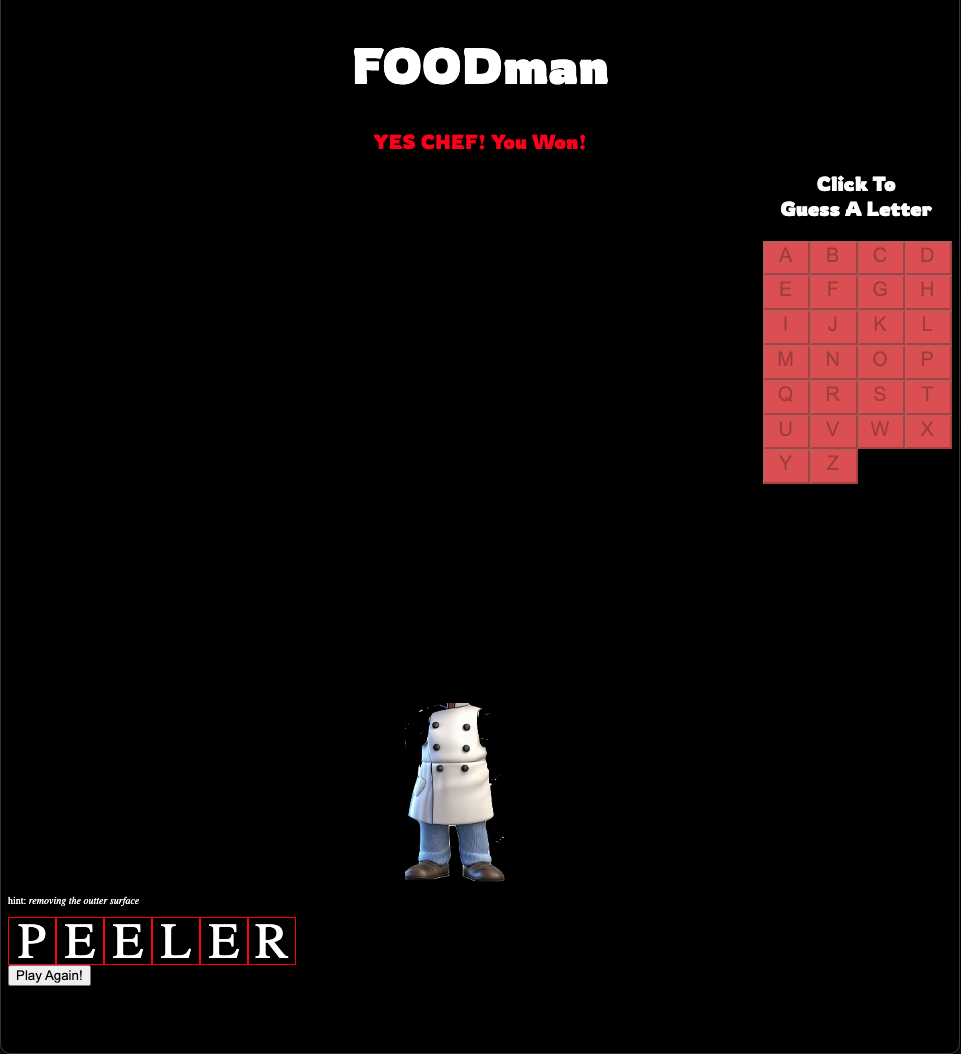
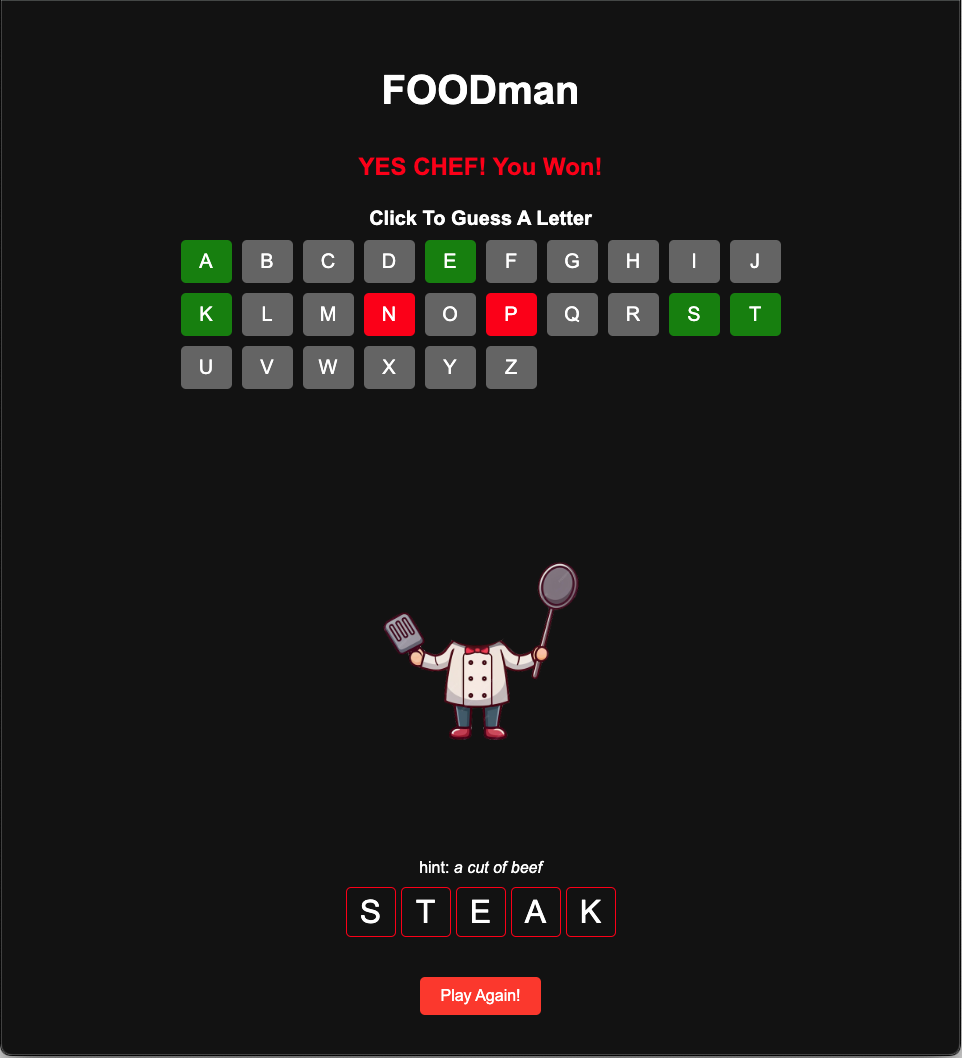
update with new screen shots for readme

diff --git a/assets/js/app.js b/assets/js/app.js
@@ -93,7 +93,7 @@ const updateMessage = () => {
   if (winner) {
     resultDisplayEl.textContent = "YES CHEF! You Won!";
   } else if (mistakes >= maxMistakes) {
-    resultDisplayEl.textContent = "You're TOAST! Sorry, the word was " + winningWord.join("");
+    resultDisplayEl.textContent = "You're TOAST! Sorry, the word was " + winningWord.join("") + "!";
   } else {
     resultDisplayEl.textContent = `Mistakes: ${mistakes}/${maxMistakes}`;
   }

diff --git a/README.md b/README.md
@@ -9,11 +9,11 @@ Then, you take another turn and click on another letter. The more mistakes you g
 ## Screenshots
 
 **Start Screen**
-![Foodman-Start-Screen](https://github.com/caojohnny91/FOODMan-Game/assets/168755794/edf121ac-70f5-4c52-9c36-410674e50531)
+![Foodman-Start-Screen](./assets/images/foodman-start.png)
 **Lose Screen**
-![Foodman-Lose](https://github.com/caojohnny91/FOODMan-Game/assets/168755794/0fa2ae6e-f8f7-4cf1-ba98-a3e08344b5a7)
+![Foodman-Lose](./assets/images/foodman-loss.png)
 **Win Screen**
-![Foodman-Win](https://github.com/caojohnny91/FOODMan-Game/assets/168755794/5f407e03-f69e-450d-b568-8d1a6529ea18)
+![Foodman-Win](./assets/images/foodman-win.png)
 
 ## Technologies Used
 
